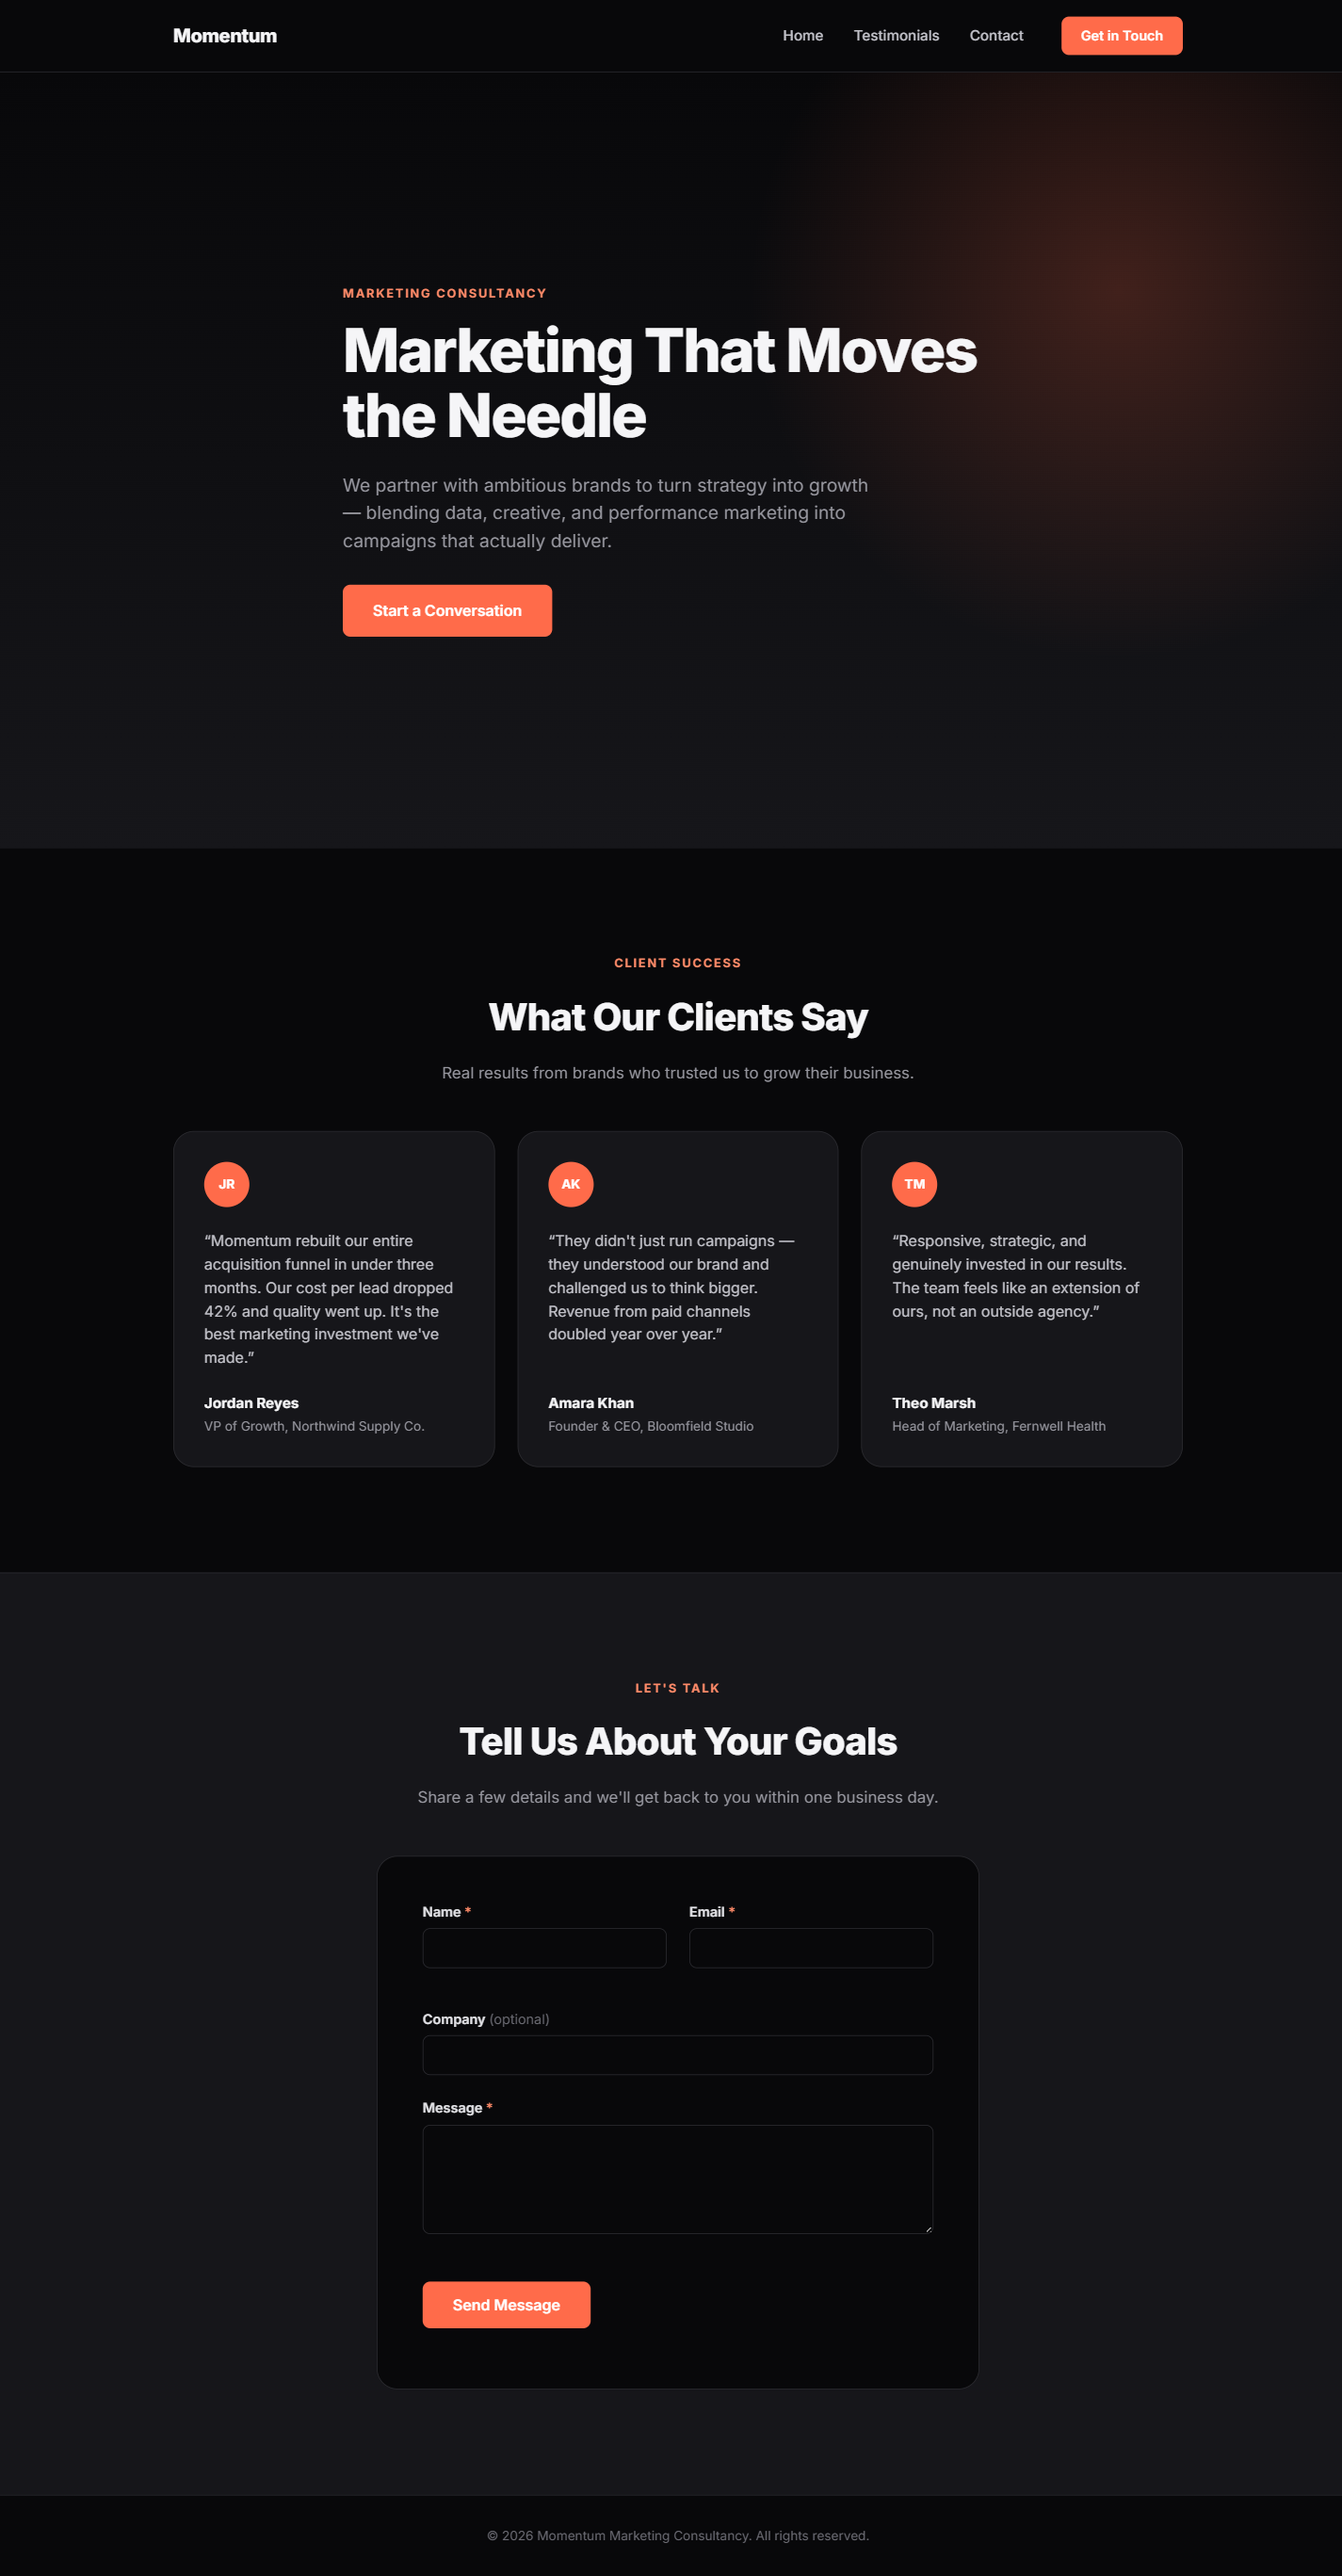
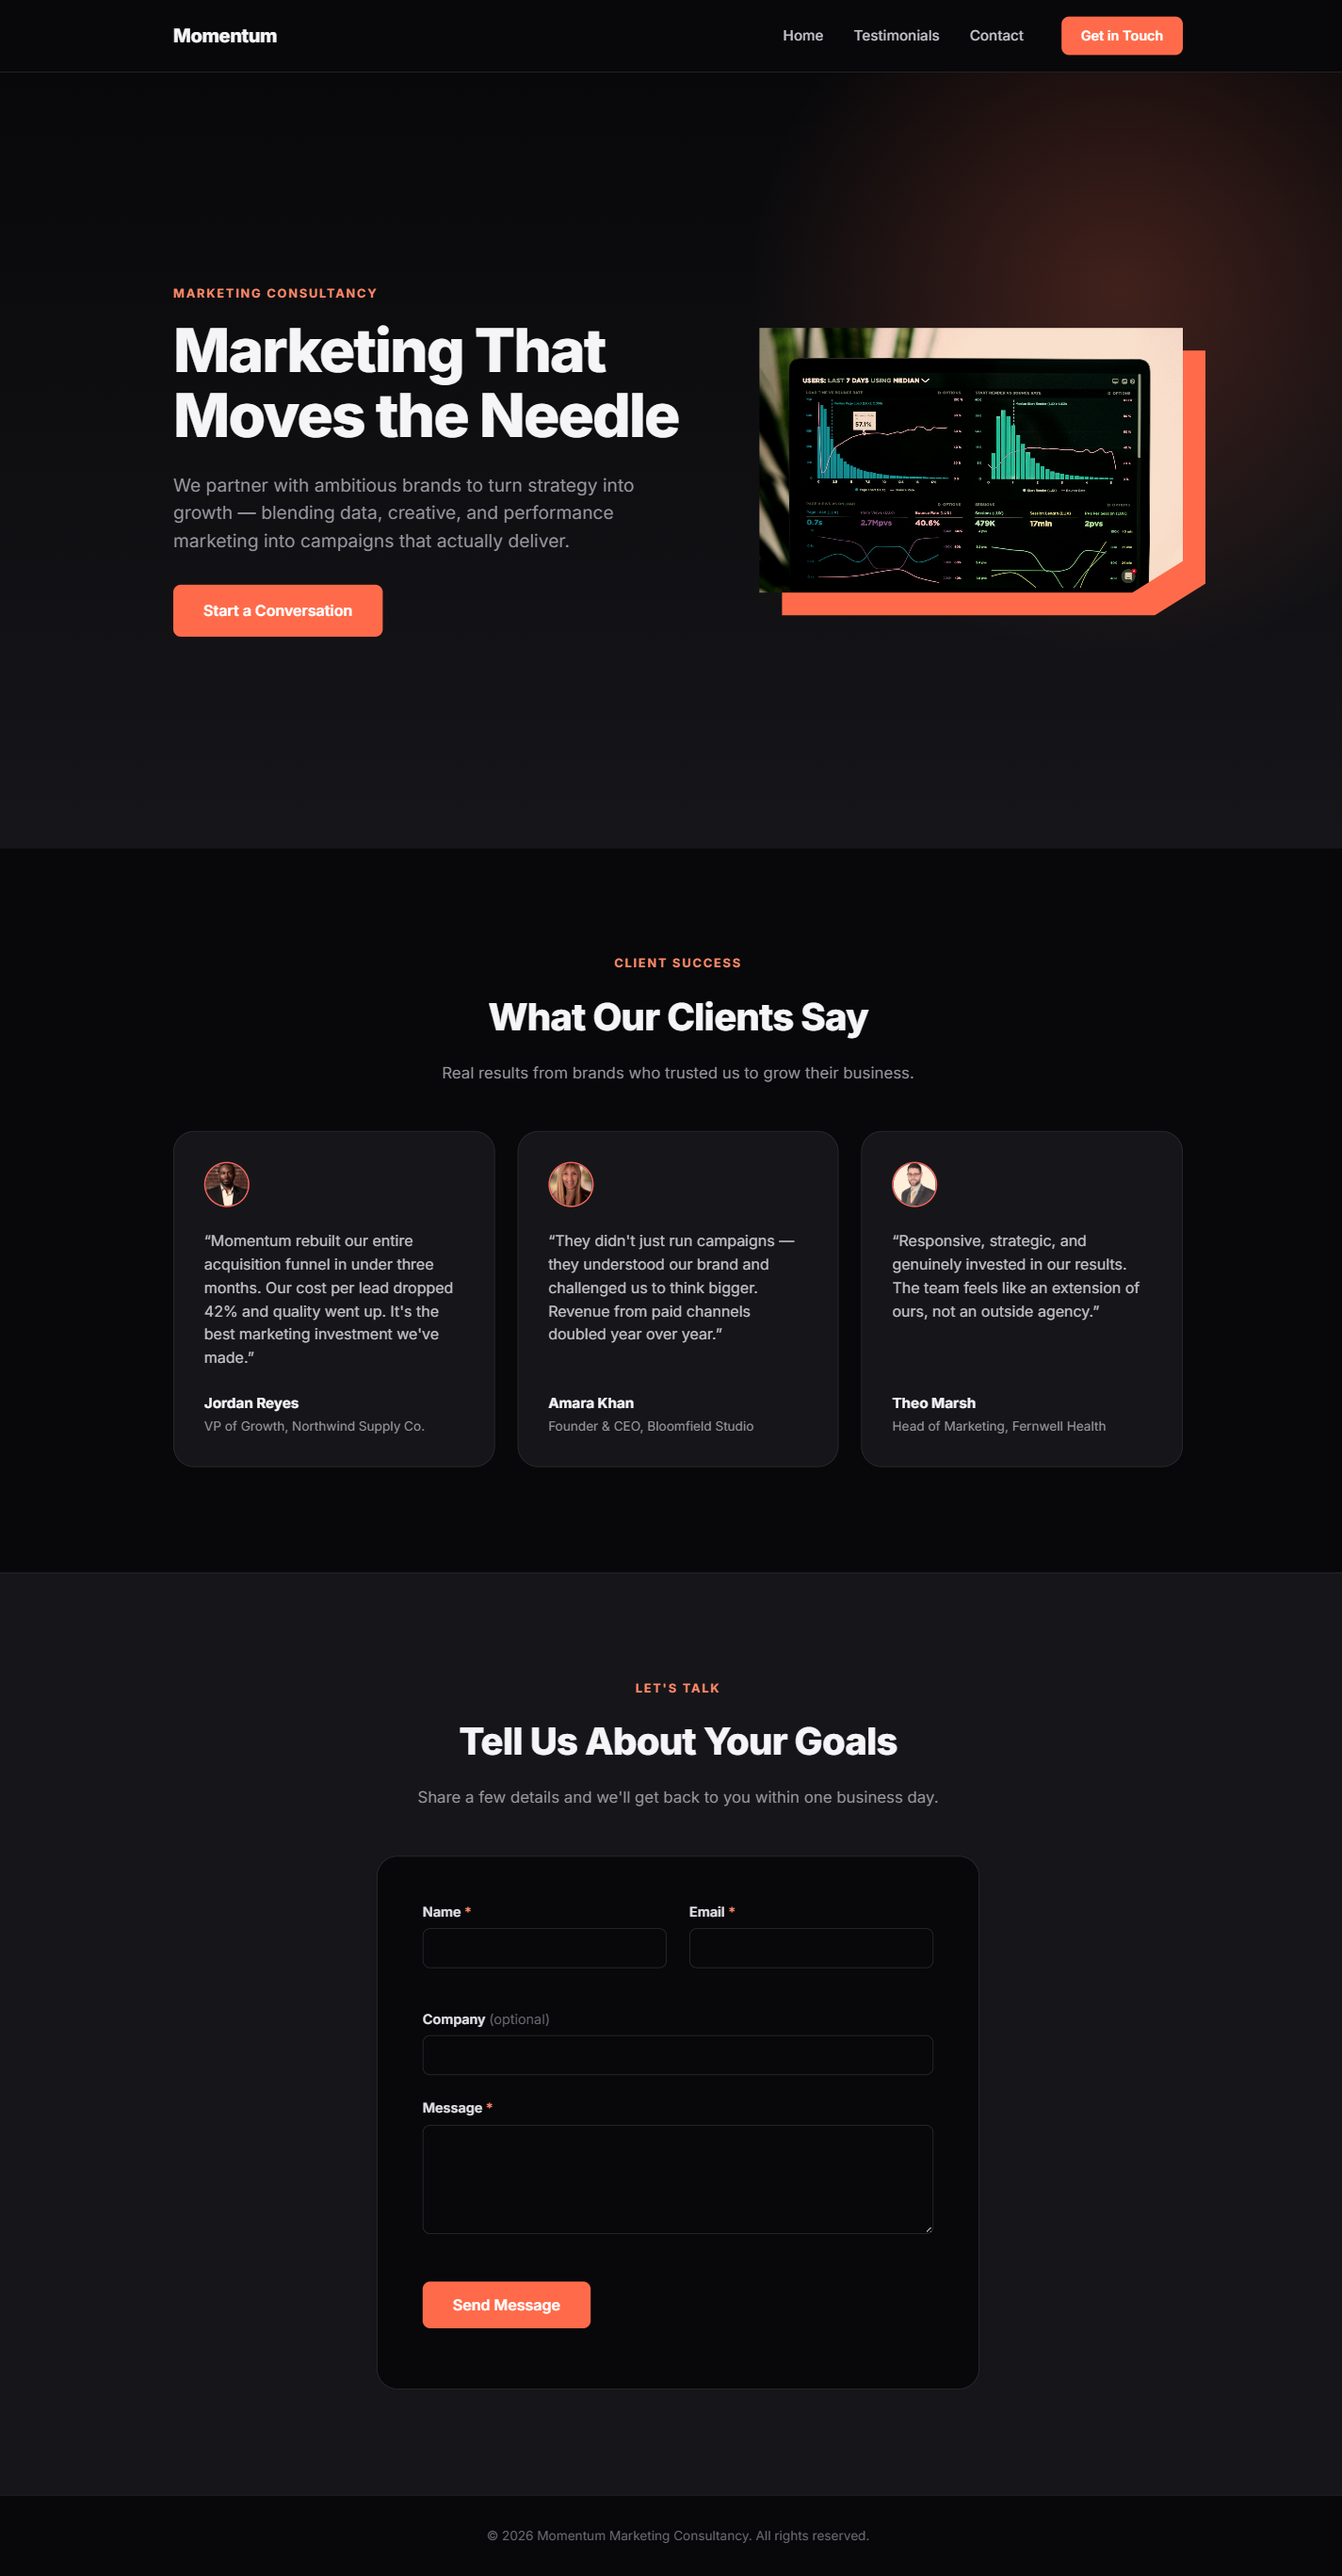
Refresh README screenshot and structure for the photography redesign
Screenshot now reflects the split hero and real testimonial photos.
Documents assets/images/ in the structure table and drops the Formspree
placeholder note since the form is wired to a live endpoint.

diff --git a/README.md b/README.md
@@ -38,6 +38,7 @@ Vanilla HTML/CSS/JS only — no framework, no build step, no package manager.
 | `index.html` | All markup — sticky nav, hero, testimonials grid, enquiry form, footer |
 | `styles.css` | All styling — theme variables live in the `:root` custom-properties block |
 | `script.js` | All behavior — mobile nav toggle, smooth scroll, enquiry form validation/submission |
+| `assets/images/` | Hero and testimonial photography (duotone-treated to match the coral accent) |
 | `.github/workflows/deploy.yml` | GitHub Actions workflow that publishes the site to GitHub Pages on push to `main` |
 
 ---
@@ -57,12 +58,6 @@ python -m http.server
 | Trigger | Action | Result |
 |---|---|---|
 | Push to `main` | `.github/workflows/deploy.yml` runs | Site published to GitHub Pages |
-
----
-
-## Note
-
-> `FORMSPREE_ENDPOINT` in `script.js` is a placeholder and must be replaced with a real Formspree form ID before the enquiry form will deliver submissions.
 
 ---
 
